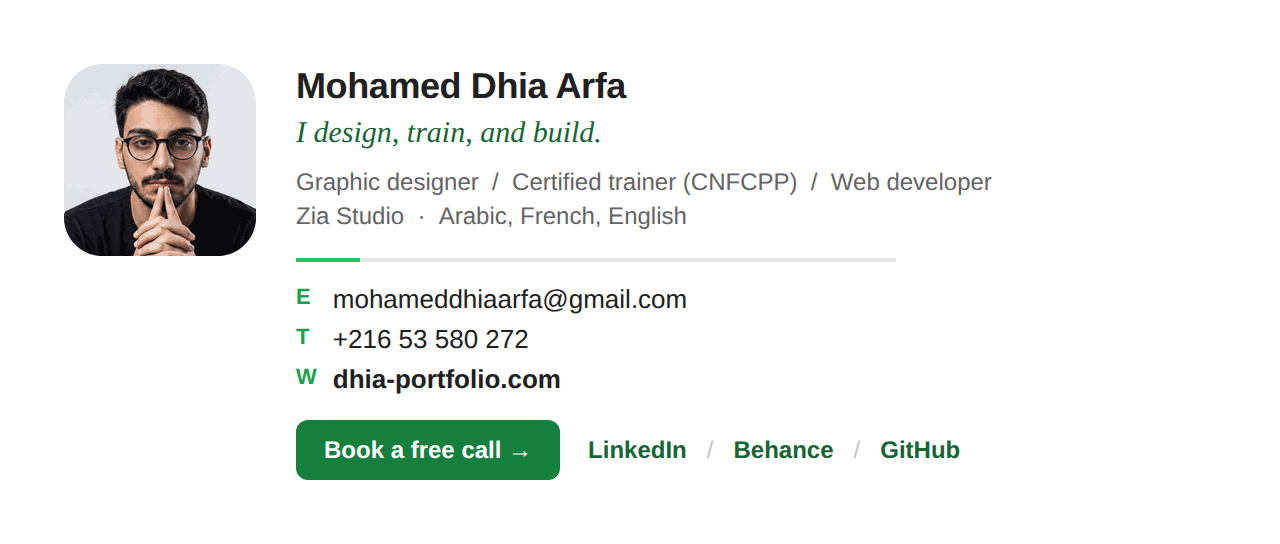
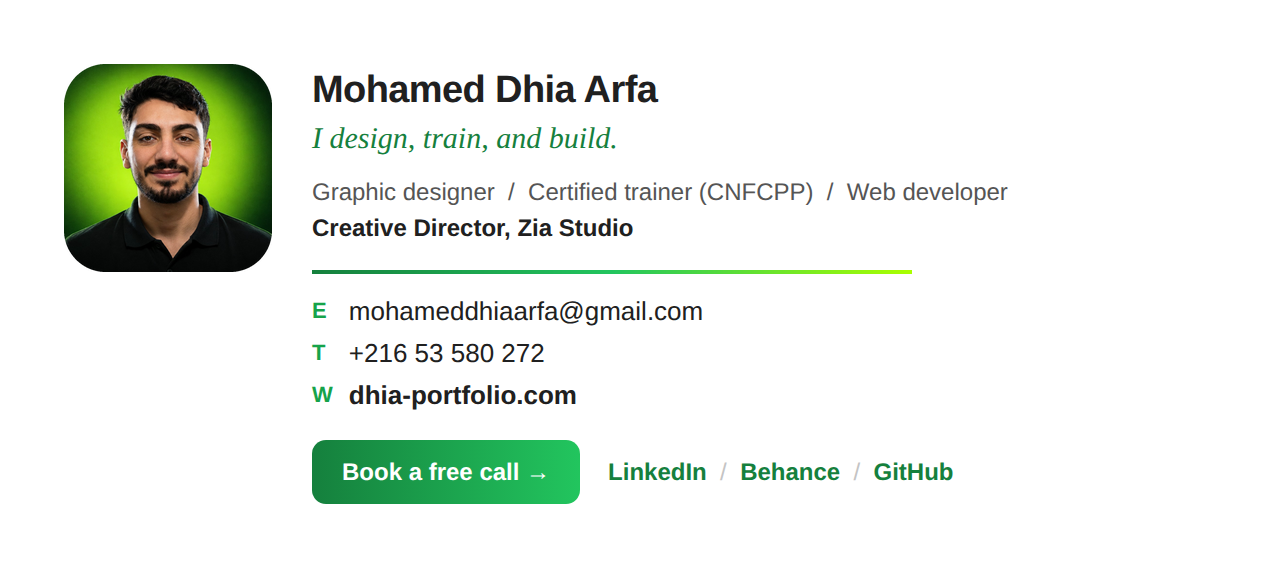
Email signature: hero photo, green gradient, Creative Director line
Use the site's hero portrait, a forest-to-lime gradient bar and button
(solid green fallback for Outlook), drop the languages line, and put the
button padding on the link so the whole button is clickable.

Claude-Session: https://claude.ai/code/session_019U5fdYTpAHKt3PNnexFFaA

diff --git a/email-signature/dhia-email-signature.html b/email-signature/dhia-email-signature.html
@@ -1,65 +1,63 @@
 <!--
   Email signature for Mohamed Dhia Arfa.
   Built for Gmail, Outlook (desktop, web, mobile) and Apple Mail:
-  tables only, every style inline, web-safe fallbacks after the brand fonts,
-  the photo pre-rounded in the PNG (no CSS clipping) and hosted on dhia-portfolio.com.
+  tables only, every style inline, web-safe fallbacks after the brand fonts.
+  Images (photo with baked-in rounded corners, gradient bar) are hosted on dhia-portfolio.com.
+  The button carries a solid green fallback for Outlook desktop, which ignores CSS gradients.
   Install: open this file in a browser, select the signature, copy, paste into
   Gmail > Settings > See all settings > Signature.
 -->
 <table cellpadding="0" cellspacing="0" border="0" role="presentation" style="border-collapse:collapse; max-width:520px; font-family:Inter, 'Segoe UI', Helvetica, Arial, sans-serif; color:#202020;">
   <tr>
-    <!-- Photo -->
-    <td valign="top" width="96" style="width:96px; padding:0 20px 0 0; vertical-align:top;">
-      <a href="https://www.dhia-portfolio.com" target="_blank" style="text-decoration:none;">
-        <img src="https://www.dhia-portfolio.com/email/dhia-arfa-signature.png" width="96" height="96" alt="Mohamed Dhia Arfa" style="display:block; width:96px; height:96px; border:0; outline:none;" />
+    <!-- Photo (from the site's hero) -->
+    <td valign="top" width="104" style="width:104px; padding:0 20px 0 0; vertical-align:top;">
+      <a href="https://www.dhia-portfolio.com" target="_blank" style="display:block; text-decoration:none;">
+        <img src="https://www.dhia-portfolio.com/email/dhia-arfa-signature.png" width="104" height="104" alt="Mohamed Dhia Arfa" style="display:block; width:104px; height:104px; border:0; outline:none;" />
       </a>
     </td>
 
     <!-- Details -->
-    <td valign="top" style="vertical-align:top; padding:0;">
+    <td valign="top" style="vertical-align:top; padding:2px 0 0 0;">
       <!-- Name -->
-      <p style="margin:0; font-size:18px; line-height:22px; font-weight:700; color:#202020; letter-spacing:-0.2px;">Mohamed Dhia Arfa</p>
+      <p style="margin:0; font-size:19px; line-height:23px; font-weight:800; color:#202020; letter-spacing:-0.3px;">Mohamed Dhia Arfa</p>
       <!-- Tagline, the site's italic accent -->
-      <p style="margin:3px 0 0 0; font-family:Fraunces, Georgia, 'Times New Roman', serif; font-style:italic; font-size:15px; line-height:20px; color:#166534;">I design, train, and build.</p>
+      <p style="margin:3px 0 0 0; font-family:Fraunces, Georgia, 'Times New Roman', serif; font-style:italic; font-size:15px; line-height:20px; color:#15803d;">I design, train, and build.</p>
       <!-- Roles -->
-      <p style="margin:6px 0 0 0; font-size:12px; line-height:17px; color:#646464;">Graphic designer&nbsp;&nbsp;/&nbsp;&nbsp;Certified trainer (CNFCPP)&nbsp;&nbsp;/&nbsp;&nbsp;Web developer<br />Zia Studio&nbsp;&nbsp;·&nbsp;&nbsp;Arabic, French, English</p>
+      <p style="margin:7px 0 0 0; font-size:12px; line-height:18px; color:#555555;">Graphic designer&nbsp;&nbsp;/&nbsp;&nbsp;Certified trainer (CNFCPP)&nbsp;&nbsp;/&nbsp;&nbsp;Web developer<br /><span style="color:#202020; font-weight:600;">Creative Director, Zia Studio</span></p>
 
-      <!-- Divider: a hairline with a short brand-green segment -->
+      <!-- Gradient bar: forest green to the hero's lime -->
       <table cellpadding="0" cellspacing="0" border="0" role="presentation" style="border-collapse:collapse; margin:12px 0 10px 0;">
         <tr>
-          <td width="32" height="2" style="width:32px; height:2px; background-color:#22c55e; font-size:0; line-height:0;">&nbsp;</td>
-          <td width="268" height="2" style="width:268px; height:2px; background-color:#e6e6e6; font-size:0; line-height:0;">&nbsp;</td>
+          <td style="padding:0; font-size:0; line-height:0;">
+            <img src="https://www.dhia-portfolio.com/email/signature-gradient.png" width="300" height="2" alt="" style="display:block; width:300px; height:2px; border:0;" />
+          </td>
         </tr>
       </table>
 
       <!-- Contact -->
       <table cellpadding="0" cellspacing="0" border="0" role="presentation" style="border-collapse:collapse;">
         <tr>
-          <td style="padding:0 8px 3px 0; font-size:11px; line-height:17px; font-weight:700; color:#16a34a; vertical-align:middle;">E</td>
-          <td style="padding:0 0 3px 0; font-size:13px; line-height:17px; vertical-align:middle;"><a href="mailto:mohameddhiaarfa@gmail.com" style="color:#202020; text-decoration:none;">mohameddhiaarfa@gmail.com</a></td>
+          <td style="padding:0 8px 3px 0; font-size:11px; line-height:18px; font-weight:800; color:#16a34a; vertical-align:middle;">E</td>
+          <td style="padding:0 0 3px 0; font-size:13px; line-height:18px; vertical-align:middle;"><a href="mailto:mohameddhiaarfa@gmail.com" style="color:#202020; text-decoration:none;">mohameddhiaarfa@gmail.com</a></td>
         </tr>
         <tr>
-          <td style="padding:0 8px 3px 0; font-size:11px; line-height:17px; font-weight:700; color:#16a34a; vertical-align:middle;">T</td>
-          <td style="padding:0 0 3px 0; font-size:13px; line-height:17px; vertical-align:middle;"><a href="tel:+21653580272" style="color:#202020; text-decoration:none;">+216 53 580 272</a></td>
+          <td style="padding:0 8px 3px 0; font-size:11px; line-height:18px; font-weight:800; color:#16a34a; vertical-align:middle;">T</td>
+          <td style="padding:0 0 3px 0; font-size:13px; line-height:18px; vertical-align:middle;"><a href="tel:+21653580272" style="color:#202020; text-decoration:none;">+216 53 580 272</a></td>
         </tr>
         <tr>
-          <td style="padding:0 8px 0 0; font-size:11px; line-height:17px; font-weight:700; color:#16a34a; vertical-align:middle;">W</td>
-          <td style="padding:0; font-size:13px; line-height:17px; vertical-align:middle;"><a href="https://www.dhia-portfolio.com" target="_blank" style="color:#202020; text-decoration:none; font-weight:600;">dhia-portfolio.com</a></td>
+          <td style="padding:0 8px 0 0; font-size:11px; line-height:18px; font-weight:800; color:#16a34a; vertical-align:middle;">W</td>
+          <td style="padding:0; font-size:13px; line-height:18px; vertical-align:middle;"><a href="https://www.dhia-portfolio.com" target="_blank" style="color:#202020; text-decoration:none; font-weight:700;">dhia-portfolio.com</a></td>
         </tr>
       </table>
 
-      <!-- Call to action + links -->
-      <table cellpadding="0" cellspacing="0" border="0" role="presentation" style="border-collapse:collapse; margin:12px 0 0 0;">
+      <!-- Call to action + links. The padding sits on the link itself, so the whole button is clickable. -->
+      <table cellpadding="0" cellspacing="0" border="0" role="presentation" style="border-collapse:collapse; margin:13px 0 0 0;">
         <tr>
-          <td bgcolor="#15803d" style="background-color:#15803d; border-radius:6px; padding:7px 14px;">
-            <a href="https://cal.com/dhiaarfa/30min" target="_blank" style="font-size:12px; line-height:16px; font-weight:700; color:#ffffff; text-decoration:none; display:inline-block;">Book a free call&nbsp;&rarr;</a>
+          <td bgcolor="#15803d" style="background-color:#15803d; background-image:linear-gradient(90deg, #15803d 0%, #22c55e 100%); border-radius:7px; padding:0;">
+            <a href="https://cal.com/dhiaarfa/30min" target="_blank" style="display:inline-block; padding:8px 15px; font-size:12px; line-height:16px; font-weight:700; color:#ffffff; text-decoration:none; border-radius:7px;">Book a free call&nbsp;&rarr;</a>
           </td>
-          <td style="padding:0 0 0 14px; font-size:12px; line-height:16px; white-space:nowrap;">
-            <a href="https://linkedin.com/in/-dhia" target="_blank" style="color:#166534; text-decoration:none; font-weight:600;">LinkedIn</a>
-            <span style="color:#c4c4c4;">&nbsp;&nbsp;/&nbsp;&nbsp;</span>
-            <a href="https://behance.net/dhiaa" target="_blank" style="color:#166534; text-decoration:none; font-weight:600;">Behance</a>
-            <span style="color:#c4c4c4;">&nbsp;&nbsp;/&nbsp;&nbsp;</span>
-            <a href="https://github.com/dhiaarfa" target="_blank" style="color:#166534; text-decoration:none; font-weight:600;">GitHub</a>
+          <td style="padding:0 0 0 14px; font-size:12px; line-height:16px; white-space:nowrap; vertical-align:middle;">
+            <a href="https://www.linkedin.com/in/-dhia" target="_blank" style="color:#15803d; text-decoration:none; font-weight:700;">LinkedIn</a><span style="color:#c4c4c4;">&nbsp;&nbsp;/&nbsp;&nbsp;</span><a href="https://www.behance.net/dhiaa" target="_blank" style="color:#15803d; text-decoration:none; font-weight:700;">Behance</a><span style="color:#c4c4c4;">&nbsp;&nbsp;/&nbsp;&nbsp;</span><a href="https://github.com/dhiaarfa" target="_blank" style="color:#15803d; text-decoration:none; font-weight:700;">GitHub</a>
           </td>
         </tr>
       </table>
